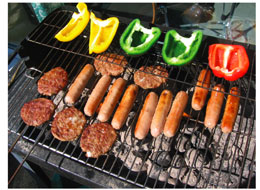
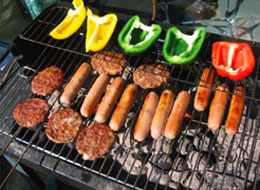
Few Updates: Improved about and contact us, with needed updates to the stylesheet.css I have removed the white box in the test image, its still the same size it was just bugging me.

diff --git a/public_html/stylesheets/stylesheet.css b/public_html/stylesheets/stylesheet.css
@@ -98,7 +98,7 @@ li {
 /*Style Fox Box Stye Subheader With Related Links Option for an image.*/
 /*Look on the wiki page for html code, converts a list into a related links box*/
 #pageheader{
-    background-color: lightblue;
+    background-color: #00CCFF;
     background-repeat: no-repeat;
     background-position: right top;
 }
@@ -106,7 +106,7 @@ li {
     margin: 5px;
 }
 #pagelinks{
-    background-color: grey;
+    background-color: #999999;
     width: 100%;
 }
 
@@ -265,6 +265,46 @@ li {
 #calviewEventMenu ul li a:hover {
 	color: #ffffff;
 }
-
-
 /* -- 	END LISTINGS CALENDAR VIEW CLASSES -- */
+
+/* Column Text And ColumnPhoto are two simple styles for a column of text next to a photo*/
+#columnText {
+	margin-left: 5px;
+	width: 59%;
+	float: left;
+}
+#columnPhoto {
+	width: 39%;
+	text-align: center;
+	float: right;
+}
+#columnPhoto a {
+	color: darkgrey;
+	text-decoration: none;
+}
+
+/*InfoBoxes*/
+#Infobox {
+	text-align: left;
+	margin-left: 20px;
+	margin-right: 20px;
+	background-color: #C4C4E1;
+	border-color: #0099FF;
+	border-style: solid;
+	border-width: thin;
+}
+#InfoboxText {
+	margin-left: 5px;
+	width: 59%;
+	float: left;
+}
+#InfoboxPhoto {
+	width: 39%;
+	text-align: center;
+	float: right;
+}
+#InfoboxPhoto a {
+	color: grey;
+	text-decoration: none;
+}
+ 

diff --git a/system/application/views/about/about.php b/system/application/views/about/about.php
@@ -1,59 +1,70 @@
-
-<!DOCTYPE html 
-     PUBLIC '-//W3C//DTD XHTML 1.0 Strict//EN'
-    'http://www.w3.org/TR/xhtml1/DTD/xhtml1-strict.dtd'>
-<html xmlns="http://www.w3.org/1999/xhtml" xml:lang="en" lang="en">
-	<head>
-		<title>The Yorker: About Us</title>
-		<link rel="stylesheet" href="/stylesheets/stylesheet.css" type="text/css" />
-	</head>
-	<body>
-		<div id='pageheader' style='background-image: url(/images/subheadericons/pageicon_pagename.gif);'>
-			<div id='titleheader'>
-				<h1>About Us</h1>
-			</div>
-			<p>&nbsp;&nbsp;Related Pages :</p>
-			<div id='pagelinks'>
-				<ul>
-					<li>About Us</li>
-					<li><a href='/contact/'>Contact Us</a></li>
-					<li><a href='#'>Our Campaign</a></li>
-				</ul>
-			</div>
+<div id='pageheader' style='background-image: url(/images/subheadericons/pageicon_pagename.gif);'>
+	<div id='titleheader'>
+		<h1>About Us</h1>
+	</div>
+	<p>&nbsp;&nbsp;Related Pages :</p>
+	<div id='pagelinks'>
+		<ul>
+			<li>About Us</li>
+			<li><a href='/contact/'>Contact Us</a></li>
+			<li><a href='#'>Sponsered Charity</a></li>
+		</ul>
+	</div>
+</div>
+<h2>The Website</h2>
+<div id='columnText'>
+	<p>Lorem ipsum dolor sit amet, consectetuer adipiscing elit. Phasellus id justo. Class aptent taciti sociosqu ad litora torquent per conubia nostra, per inceptos hymenaeos. Phasellus enim leo, varius eu, sodales non, egestas nec, urna. Etiam lacus orci, molestie ac, malesuada at, ullamcorper eu, tortor. Phasellus fermentum, mauris a ullamcorper porta, dui erat tincidunt arcu, ac lacinia mauris lorem ac est. Sed nunc justo, feugiat sed, ultricies nec, vehicula eget, massa. Nam eget massa ut elit pretium tincidunt. Fusce sollicitudin vulputate tellus. Aliquam erat volutpat. Pellentesque turpis risus, bibendum vel, lobortis eget, facilisis non, risus.</p>
+</div>
+<div id='columnPhoto'>
+	<a href='#'><img src='/images/prototype/reviews/reviews_07.jpg' /></a>
+	<a href='#'><h5>Image Information</h5></a>
+</div>
+<div class="clear">&nbsp;</div>
+<h2>Our Aims</h2>
+<div id='columnText'>
+	<p>Lorem ipsum dolor sit amet, consectetuer adipiscing elit. Phasellus id justo. Class aptent taciti sociosqu ad litora torquent per conubia nostra, per inceptos hymenaeos. Phasellus enim leo, varius eu, sodales non, egestas nec, urna. Etiam lacus orci, molestie ac, malesuada at, ullamcorper eu, tortor. Phasellus fermentum, mauris a ullamcorper porta, dui erat tincidunt arcu, ac lacinia mauris lorem ac est. Sed nunc justo, feugiat sed, ultricies nec, vehicula eget, massa. Nam eget massa ut elit pretium tincidunt. Fusce sollicitudin vulputate tellus. Aliquam erat volutpat. Pellentesque turpis risus, bibendum vel, lobortis eget, facilisis non, risus.</p>
+</div>
+<div id='columnPhoto'>
+	<a href='#'><img src='/images/prototype/reviews/reviews_07.jpg' /></a>
+	<a href='#'><h5>Image Information</h5></a>
+</div>
+<div class="clear">&nbsp;</div>
+<h2>Statement of Policy</h2>
+<div id='columnText'>
+	<p>Lorem ipsum dolor sit amet, consectetuer adipiscing elit. Phasellus id justo. Class aptent taciti sociosqu ad litora torquent per conubia nostra, per inceptos hymenaeos. Phasellus enim leo, varius eu, sodales non, egestas nec, urna. Etiam lacus orci, molestie ac, malesuada at, ullamcorper eu, tortor. Phasellus fermentum, mauris a ullamcorper porta, dui erat tincidunt arcu, ac lacinia mauris lorem ac est. Sed nunc justo, feugiat sed, ultricies nec, vehicula eget, massa. Nam eget massa ut elit pretium tincidunt. Fusce sollicitudin vulputate tellus. Aliquam erat volutpat. Pellentesque turpis risus, bibendum vel, lobortis eget, facilisis non, risus.</p>
+</div>
+<div id='columnPhoto'>
+	<a href='#'><img src='/images/prototype/reviews/reviews_07.jpg' /></a>
+	<a href='#'><h5>Image Information</h5></a>
+</div>
+<div class="clear">&nbsp;</div>
+<div>
+	<h2>The Team</h2>
+	<p>Lorem ipsum dolor sit amet, consectetuer adipiscing elit. Phasellus id justo. Class aptent taciti sociosqu ad litora torquent per conubia nostra, per inceptos hymenaeos. Phasellus enim leo, varius eu, sodales non, egestas nec, urna.</p>
+	<div id='Infobox'>
+		<div id='InfoboxText'>
+			<h2>Nick Evans</h2>
+			<h3>Technical Director</h3>
+			<p>Lorem ipsum dolor sit amet, consectetuer adipiscing elit. Phasellus id justo. Class aptent taciti sociosqu ad litora torquent per conubia nostra, per inceptos hymenaeos. Phasellus enim leo, varius eu, sodales non, egestas nec, urna.</p>
 		</div>
-		<div style='width: 70%; float: left'>
-		<h2>Our Aims</h2>
-		<p>Lorem ipsum dolor sit amet, consectetuer adipiscing elit. Phasellus id justo. Class aptent taciti sociosqu ad litora torquent per conubia nostra, per inceptos hymenaeos. Phasellus enim leo, varius eu, sodales non, egestas nec, urna. Etiam lacus orci, molestie ac, malesuada at, ullamcorper eu, tortor. Phasellus fermentum, mauris a ullamcorper porta, dui erat tincidunt arcu, ac lacinia mauris lorem ac est. Sed nunc justo, feugiat sed, ultricies nec, vehicula eget, massa. Nam eget massa ut elit pretium tincidunt. Fusce sollicitudin vulputate tellus. Aliquam erat volutpat. Pellentesque turpis risus, bibendum vel, lobortis eget, facilisis non, risus. Sed malesuada risus. Phasellus tincidunt elit a ipsum. Phasellus tincidunt odio et sapien. Nullam a dui. Mauris porttitor, sapien a vulputate lacinia, dui risus mollis augue, quis lacinia purus magna eu erat. Pellentesque varius mauris. Proin accumsan viverra metus. Cras porta ultricies odio. Vivamus commodo. Mauris sapien.</p>
-		</div>
-		<div style='width: 30%; float: right'>
-			<img src='/images/prototype/reviews/reviews_07.jpg' />
+		<div id='InfoboxPhoto'>
+			<a href='#'><img src='/images/prototype/reviews/reviews_07.jpg' /></a>
+			<a href='#'><h5>Image Information</h5></a>
 		</div>
 		<div class="clear">&nbsp;</div>
-		<div>
-			<h2>The Team</h2>
+		&nbsp;
+	</div>
+	<div id='Infobox'>
+		<div id='InfoboxText'>
+			<h2>Matthew Tole</h2>
+			<h3>Functional Specifier</h3>
 			<p>Lorem ipsum dolor sit amet, consectetuer adipiscing elit. Phasellus id justo. Class aptent taciti sociosqu ad litora torquent per conubia nostra, per inceptos hymenaeos. Phasellus enim leo, varius eu, sodales non, egestas nec, urna.</p>
-			<div id='Infobox' style='width: 80%;margin-left: auto;margin-right: auto;'>
-				<div id='InfoboxText'>
-					<h2>Nick Evans</h2>
-					<h3>Technical Director</h3>
-					<p>Lorem ipsum dolor sit amet, consectetuer adipiscing elit. Phasellus id justo. Class aptent taciti sociosqu ad litora torquent per conubia nostra, per inceptos hymenaeos. Phasellus enim leo, varius eu, sodales non, egestas nec, urna.</p>
-				</div>
-				<div id='InfoboxImage'>
-					<img src='/images/prototype/reviews/reviews_07.jpg' alt='Image of Nick Evans'/>
-				</div>
-				&nbsp;
-			</div>
-			<div id='Infobox' style='width: 80%;margin-left: auto;margin-right: auto;'>
-				<div id='InfoboxText'>
-					<h2>Matthew Tole</h2>
-					<h3>Functional Specifier</h3>
-					<p>Lorem ipsum dolor sit amet, consectetuer adipiscing elit. Phasellus id justo. Class aptent taciti sociosqu ad litora torquent per conubia nostra, per inceptos hymenaeos. Phasellus enim leo, varius eu, sodales non, egestas nec, urna.</p>
-				</div>
-				<div id='InfoboxImage'>
-					<img src='/images/prototype/reviews/reviews_07.jpg' alt='Image of Nick Evans'/>
-				</div>
-				&nbsp;
-			</div>
 		</div>
-	</body>
-</html>
+		<div id='InfoboxPhoto'>
+			<a href='#'><img src='/images/prototype/reviews/reviews_07.jpg' /></a>
+			<a href='#'><h5>Image Information</h5></a>
+		</div>
+		<div class="clear">&nbsp;</div>
+		&nbsp;
+	</div>
+</div>

diff --git a/system/application/views/about/contact.php b/system/application/views/about/contact.php
@@ -1,57 +1,52 @@
-<?xml version='1.0' encoding='UTF-8'?>
-<!DOCTYPE html 
-     PUBLIC '-//W3C//DTD XHTML 1.0 Strict//EN'
-    'http://www.w3.org/TR/xhtml1/DTD/xhtml1-strict.dtd'>
-<html xmlns="http://www.w3.org/1999/xhtml" xml:lang="en" lang="en">
-	<head>
-		<title>The Yorker: Contact Us</title>
-		<link rel="stylesheet" href="/stylesheets/stylesheet.css" type="text/css" />
-	</head>
-	<body>
-		<div id='pageheader' style='background-image: url(/images/subheadericons/pageicon_pagename.gif);'>
-			<div id='titleheader'>
-				<h1>Contact Us</h1>
-			</div>
-			<p>&nbsp;&nbsp;Related Pages :</p>
-			<div id='pagelinks'>
-				<ul>
-					<li><a href='/about/'>About Us</a></li>
-					<li>Contact Us</li>
-					<li><a href='#'>Our Campaign</a></li>
-				</ul>
-			</div>
+<div id='pageheader' style='background-image: url(/images/subheadericons/pageicon_pagename.gif);'>
+	<div id='titleheader'>
+		<h1>Contact Us</h1>
+	</div>
+	<p>&nbsp;&nbsp;Related Pages :</p>
+	<div id='pagelinks'>
+		<ul>
+			<li><a href='/about/'>About Us</a></li>
+			<li>Contact Us</li>
+			<li><a href='#'>Sponsered Charity</a></li>
+		</ul>
+	</div>
+</div>
+<div>
+	<h2>Who to contact</h2>
+	<p>Lorem ipsum dolor sit amet, consectetuer adipiscing elit. Phasellus id justo. Class aptent taciti sociosqu ad litora torquent per conubia nostra, per inceptos hymenaeos. Phasellus enim leo, varius eu, sodales non, egestas nec, urna. Etiam lacus orci, molestie ac, malesuada at, ullamcorper eu, tortor. Phasellus fermentum, mauris a ullamcorper porta, dui erat tincidunt arcu, ac lacinia mauris lorem ac est.</p>
+	<div id='Infobox'>
+		<div id='InfoboxText'>
+			<h2>Nick Evans</h2>
+			<h3>Technical Director</h3>
+			<p>Lorem ipsum dolor sit amet, consectetuer adipiscing elit. Phasellus id justo. Class aptent taciti sociosqu ad litora torquent per conubia nostra, per inceptos hymenaeos. Phasellus enim leo, varius eu, sodales non, egestas nec, urna.</p>
+			<ul>
+				<li>Email : example@hello.world</li>
+				<li>Phone : 0123456789</li>
+			</ul>
 		</div>
-		<div>
-			<h2>Who to contact</h2>
-			<p>Lorem ipsum dolor sit amet, consectetuer adipiscing elit. Phasellus id justo. Class aptent taciti sociosqu ad litora torquent per conubia nostra, per inceptos hymenaeos. Phasellus enim leo, varius eu, sodales non, egestas nec, urna. Etiam lacus orci, molestie ac, malesuada at, ullamcorper eu, tortor. Phasellus fermentum, mauris a ullamcorper porta, dui erat tincidunt arcu, ac lacinia mauris lorem ac est.</p>
-			<div id='Infobox' style='width: 80%;margin-left: auto;margin-right: auto;'>
-				<div id='InfoboxText'>
-					<h2>Nick Evans</h2>
-					<h3>Technical Director</h3>
-					<ul>
-						<li>Email : example@hello.world</li>
-						<li>Phone : 0123456789</li>
-					</ul>
-				</div>
-				<div id='InfoboxImage'>
-					<img src='/images/prototype/reviews/reviews_07.jpg' alt='Image of Nick Evans'/>
-				</div>
-				&nbsp;
-			</div>
-			<div id='Infobox' style='width: 80%;margin-left: auto;margin-right: auto;'>
-				<div id='InfoboxText'>
-					<h2>Matthew Tole</h2>
-					<h3>Functional Specifier</h3>
-					<ul>
-						<li>Email : example@hello.world</li>
-						<li>Phone : 0123456789</li>
-					</ul>
-				</div>
-				<div id='InfoboxImage'>
-					<img src='/images/prototype/reviews/reviews_07.jpg' alt='Image of Nick Evans'/>
-				</div>
-				&nbsp;
-			</div>
+		<div id='columnPhoto'>
+			<a href='#'><img src='/images/prototype/reviews/reviews_07.jpg' /></a>
+			<a href='#'><h5>Image Information</h5></a>
 		</div>
-	</body>
-</html>
+		<div class="clear">&nbsp;</div>
+		&nbsp;
+	</div>
+	<div id='Infobox'>
+		<div id='InfoboxText'>
+			<h2>Matthew Tole</h2>
+			<h3>Functional Specifier</h3>
+			<p>Lorem ipsum dolor sit amet, consectetuer adipiscing elit. Phasellus id justo. Class aptent taciti sociosqu ad litora torquent per conubia nostra, per inceptos hymenaeos. Phasellus enim leo, varius eu, sodales non, egestas nec, urna.</p>
+			<ul>
+				<li>Email : example@hello.world</li>
+				<li>Phone : 0123456789</li>
+			</ul>
+		</div>
+		<div id='columnPhoto'>
+			<a href='#'><img src='/images/prototype/reviews/reviews_07.jpg' /></a>
+			<a href='#'><h5>Image Information</h5></a>
+		</div>
+		<div class="clear">&nbsp;</div>
+		&nbsp;
+	</div>
+</div>
+<p>&nbsp;</p>
